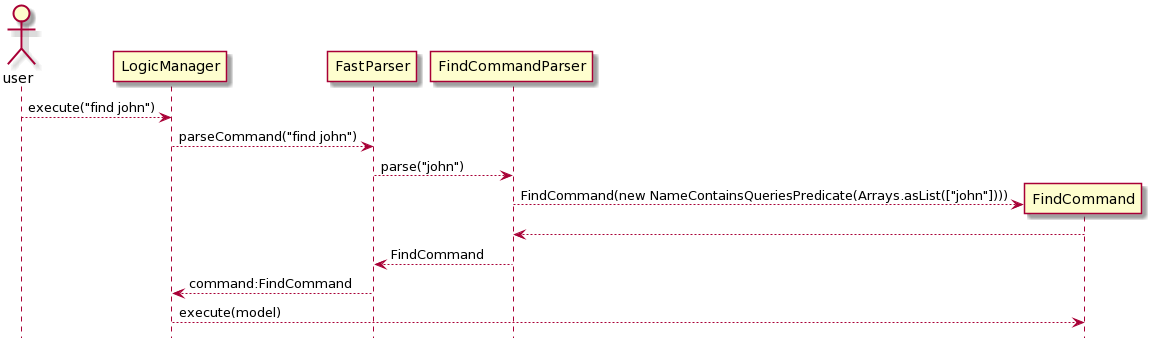
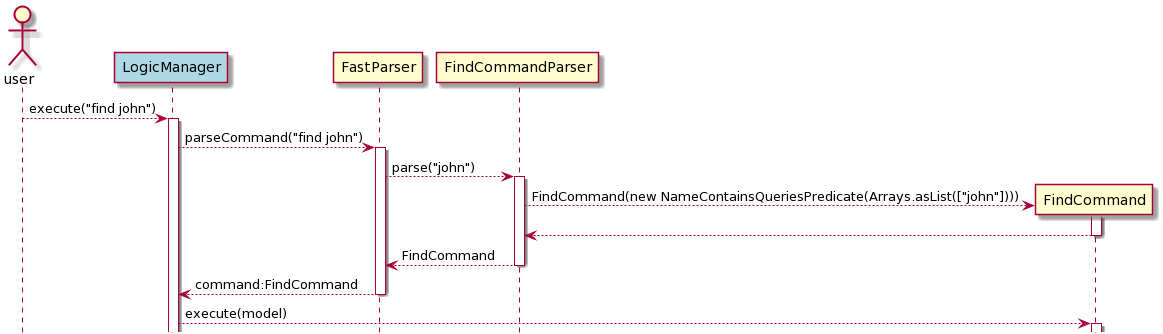
fix sequence diagram and improve explanation for implementation

diff --git a/docs/DeveloperGuide.md b/docs/DeveloperGuide.md
@@ -411,11 +411,13 @@ There are currently 4 custom predicates implemented in FAST:
 - `TagMatchesKeywordPredicate` -- checks if any of the person's tags match the keyword.
 - `RemarkContainsKeywordPredicate` -- checks if the person's remark contains the keyword.
 
-`NameContainsQueriesPredicate` implemented by running the name through a for-loop to see if any word starts with the query.
-`PriorityPredicate` implemented by running the tags through a for-loop and checking if any of them match the given priority.
-`TagMatchesKeywordPredicate` implemented by running the tags through a for-loop and checking if any of them match the given keyword.
-`RemarkContainsKeywordPredicate` implemented by using the inbuilt `String::contains`.
+`NameContainsQueriesPredicate` implemented by running the person's name through a for-loop to see if any word starts with the query.
+`PriorityPredicate` implemented by running the person's tags through a for-loop and checking if any of them match the given priority.
+`TagMatchesKeywordPredicate` implemented by running the person's tags through a for-loop and checking if any of them match the given keyword.
+`RemarkContainsKeywordPredicate` implemented by using the inbuilt `String::contains`. The person's remark is checked to see if it contains the given query.
 
+Each `Predicate` has a `test` method which will be called on every `Person` in the list to see if they fit the search.
+If the `test` method returns `true`, that `Person` will be displayed in the search results.
 ![Find_Command_Class_Diagram](images/findcommandpredicates.png)
 
 Given below is an example usage scenario and how the find mechanism behaves at each step.
